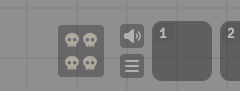
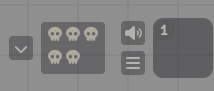
docs: document custom roll, toggle button, and update screenshots

Changed region(s): [[0.028, 0.1978, 1.0, 0.9011], [0.757, 0.2637, 0.785, 0.3956]]

diff --git a/README.md b/README.md
@@ -52,6 +52,7 @@ Once enabled, a set of control buttons appears next to the macro hotbar. These a
 - **Roll** (dice icon) — Roll the current pool and clear it. Rolling with an empty pool rolls 1 die
 - **Custom Roll** (d20 icon) — Roll any number of tension dice without affecting the pool. Opens a dialog to enter the dice count. Useful for one-off rolls outside the normal pool flow
 - **Clear** (x icon) — Empty the pool without rolling
+- **Toggle** (chevron icon) — Hide or show the tension pool display. The collapsed state is saved per-client
 - **+** — Add a die to the pool
 - **-** — Remove a die from the pool
 
@@ -67,7 +68,7 @@ Players see the tension pool icons next to the hotbar, showing how many dice are
 |---|---|
 | ![Player Empty](assets/Player-Empty.png) | ![Player With Tension](assets/Player-With-Tension.png) |
 
-Players cannot add, remove, or roll dice. They can only watch the tension build.
+Players cannot add, remove, or roll dice. They can only watch the tension build. Players can use the **Toggle** button (chevron icon) to hide or show the tension pool display.
 
 ## Settings
 

diff --git a/CONTRIBUTING.md b/CONTRIBUTING.md
@@ -96,8 +96,6 @@ scripts/
 
 - **Settings as state** — The current dice count (`diceCount`) is stored as a world-level setting. This means changes propagate to all clients via Foundry's built-in setting sync. The `onChange` callback re-renders the UI.
 
-- **`root: true` template behavior** — When the template has a single root element (e.g., non-GM view with only `.tp-icons`), that element replaces the `#tension-pool` app element. CSS accounts for this with `#tension-pool:not(:has(.tp-icons))`.
-
 - **Client-side icon theming** — Chat messages use `data-tp-icon` attributes instead of hardcoded FA classes. A `renderChatMessage` hook resolves these to the client's chosen icon theme.
 
 ### Hooks
